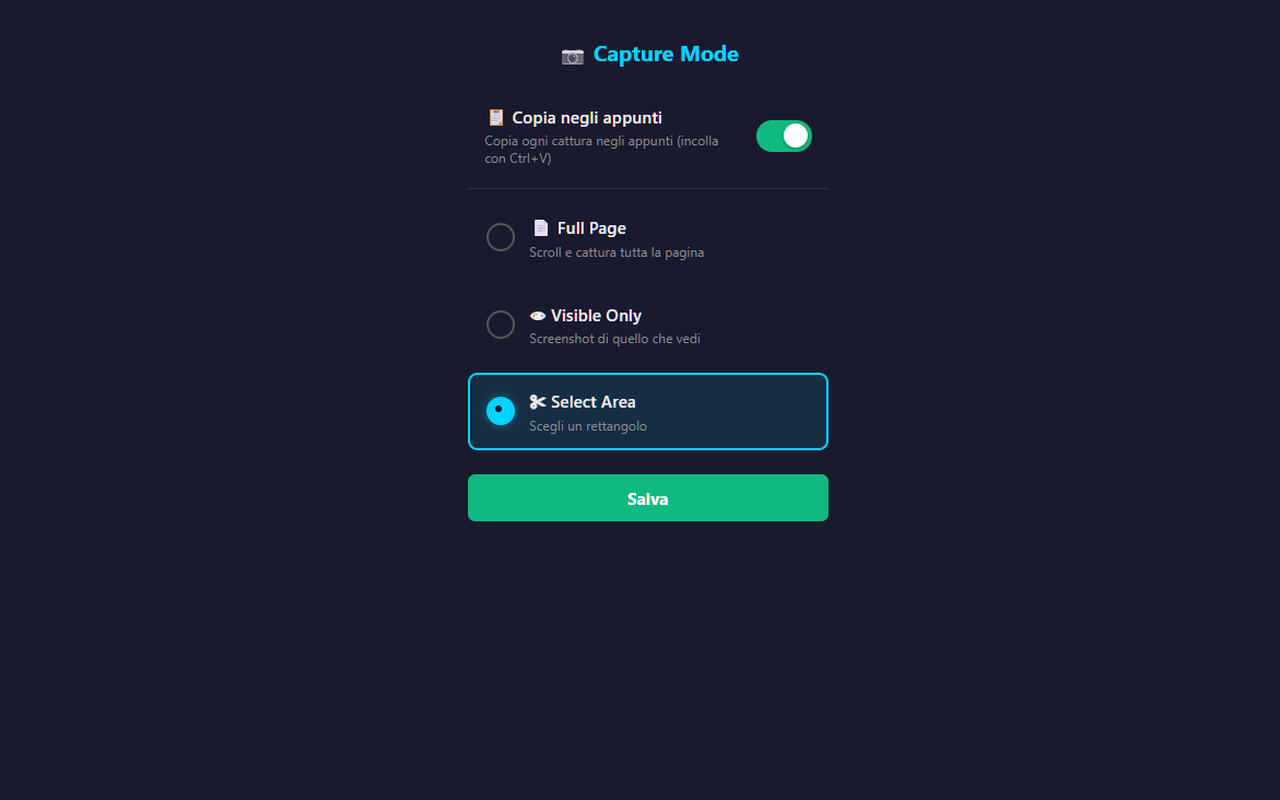
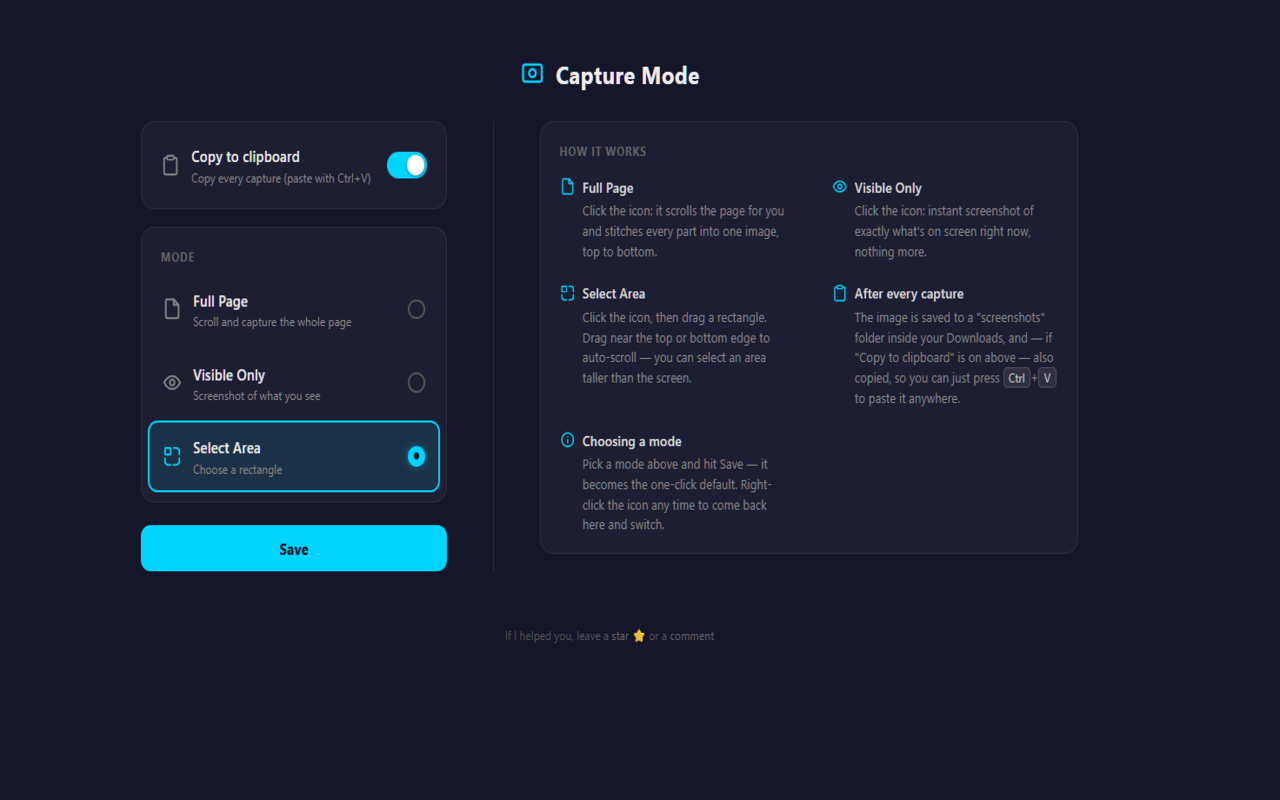
feat: layout a due colonne per Capture Mode e nuovo screenshot store
Su schermi larghi (pagina aperta come scheda, non il popup stretto) Capture
Mode passa a due colonne: controlli a sinistra, guida "How it works" a
destra, separate da una linea verticale. Le 5 voci della guida si dispongono
due per riga invece che impilate. Titolo "Capture Mode" ingrandito e piu'
in evidenza. Sotto i 780px di larghezza il layout resta a colonna singola
come prima, nessun cambiamento per il popup dell'estensione.

Sostituito shot_5.png con lo screenshot promozionale del nuovo restyling
(1280x800, RGB senza alpha, come richiesto dal Chrome Web Store).

diff --git a/full-page-screenshot-extension/settings.html b/full-page-screenshot-extension/settings.html
@@ -17,17 +17,54 @@
     .container {
       width: 320px;
     }
+
+    /* Su schermi larghi (la pagina aperta come scheda vera, non il popup
+       stretto dell'estensione) si passa a due colonne: a sinistra i controlli,
+       a destra la guida. Stesso identico contenuto, solo il layout cambia,
+       cosi' l'intera pagina sta senza scroll invece di allungarsi in verticale. */
+    @media (min-width: 780px) {
+      body { padding: 56px 40px; }
+      .container {
+        width: 100%;
+        max-width: 980px;
+        display: grid;
+        grid-template-columns: 320px 1fr;
+        column-gap: 48px;
+        align-items: start;
+      }
+      .brand, .footer {
+        grid-column: 1 / -1;
+      }
+      .col-right {
+        grid-column: 2;
+        grid-row: 2 / span 4;
+        /* Linea verticale che separa i controlli dalla guida, invece del
+           semplice spazio vuoto: rende esplicito che sono due sezioni diverse
+           (impostazioni a sinistra, spiegazione a destra), non due colonne
+           casuali. */
+        border-left: 1px solid rgba(255,255,255,0.09);
+        padding-left: 48px;
+      }
+      /* Le voci di "How it works" a due per riga invece che impilate: c'e'
+         spazio orizzontale, meglio usarlo che allungare la card in verticale.
+         L'ultima voce (numero dispari) resta da sola sull'ultima riga. */
+      #howItWorksList {
+        display: grid;
+        grid-template-columns: 1fr 1fr;
+        column-gap: 20px;
+      }
+    }
     .brand {
       display: flex;
       align-items: center;
       justify-content: center;
-      gap: 10px;
-      margin: 0 0 22px 0;
+      gap: 12px;
+      margin: 0 0 28px 0;
     }
-    .brand svg { flex-shrink: 0; }
+    .brand svg { flex-shrink: 0; width: 26px; height: 26px; }
     .brand h2 {
       margin: 0;
-      font-size: 17px;
+      font-size: 22px;
       font-weight: 700;
       color: #eee;
       letter-spacing: 0.2px;
@@ -348,47 +385,51 @@
     <button class="btn-save" id="btnSave">Save</button>
     <div class="saved" id="saved">Saved!</div>
 
-    <div class="card">
-      <div class="card-title">How it works</div>
+    <div class="col-right">
+      <div class="card">
+        <div class="card-title">How it works</div>
 
-      <div class="help-item">
-        <div class="q">
-          <svg class="icon" viewBox="0 0 24 24" fill="none" stroke="currentColor" stroke-width="2" stroke-linecap="round" stroke-linejoin="round"><path d="M14 2H6a2 2 0 0 0-2 2v16a2 2 0 0 0 2 2h12a2 2 0 0 0 2-2V8Z"/><path d="M14 2v6h6"/></svg>
-          Full Page
+        <div id="howItWorksList">
+        <div class="help-item">
+          <div class="q">
+            <svg class="icon" viewBox="0 0 24 24" fill="none" stroke="currentColor" stroke-width="2" stroke-linecap="round" stroke-linejoin="round"><path d="M14 2H6a2 2 0 0 0-2 2v16a2 2 0 0 0 2 2h12a2 2 0 0 0 2-2V8Z"/><path d="M14 2v6h6"/></svg>
+            Full Page
+          </div>
+          <div class="a">Click the icon: it scrolls the page for you and stitches every part into one image, top to bottom.</div>
         </div>
-        <div class="a">Click the icon: it scrolls the page for you and stitches every part into one image, top to bottom.</div>
-      </div>
 
-      <div class="help-item">
-        <div class="q">
-          <svg class="icon" viewBox="0 0 24 24" fill="none" stroke="currentColor" stroke-width="2" stroke-linecap="round" stroke-linejoin="round"><path d="M2 12s3.5-7 10-7 10 7 10 7-3.5 7-10 7-10-7-10-7Z"/><circle cx="12" cy="12" r="3"/></svg>
-          Visible Only
+        <div class="help-item">
+          <div class="q">
+            <svg class="icon" viewBox="0 0 24 24" fill="none" stroke="currentColor" stroke-width="2" stroke-linecap="round" stroke-linejoin="round"><path d="M2 12s3.5-7 10-7 10 7 10 7-3.5 7-10 7-10-7-10-7Z"/><circle cx="12" cy="12" r="3"/></svg>
+            Visible Only
+          </div>
+          <div class="a">Click the icon: instant screenshot of exactly what's on screen right now, nothing more.</div>
         </div>
-        <div class="a">Click the icon: instant screenshot of exactly what's on screen right now, nothing more.</div>
-      </div>
 
-      <div class="help-item">
-        <div class="q">
-          <svg class="icon" viewBox="0 0 24 24" fill="none" stroke="currentColor" stroke-width="2" stroke-linecap="round" stroke-linejoin="round"><rect x="3" y="3" width="7" height="7" rx="1"/><path d="M14 3h3a4 4 0 0 1 4 4v3M21 14v3a4 4 0 0 1-4 4h-3M10 21H7a4 4 0 0 1-4-4v-3"/></svg>
-          Select Area
+        <div class="help-item">
+          <div class="q">
+            <svg class="icon" viewBox="0 0 24 24" fill="none" stroke="currentColor" stroke-width="2" stroke-linecap="round" stroke-linejoin="round"><rect x="3" y="3" width="7" height="7" rx="1"/><path d="M14 3h3a4 4 0 0 1 4 4v3M21 14v3a4 4 0 0 1-4 4h-3M10 21H7a4 4 0 0 1-4-4v-3"/></svg>
+            Select Area
+          </div>
+          <div class="a">Click the icon, then drag a rectangle. Drag near the top or bottom edge to auto-scroll — you can select an area taller than the screen.</div>
         </div>
-        <div class="a">Click the icon, then drag a rectangle. Drag near the top or bottom edge to auto-scroll — you can select an area taller than the screen.</div>
-      </div>
 
-      <div class="help-item">
-        <div class="q">
-          <svg class="icon" viewBox="0 0 24 24" fill="none" stroke="currentColor" stroke-width="2" stroke-linecap="round" stroke-linejoin="round"><rect x="8" y="2" width="8" height="4" rx="1"/><path d="M8 4H6a2 2 0 0 0-2 2v14a2 2 0 0 0 2 2h12a2 2 0 0 0 2-2V6a2 2 0 0 0-2-2h-2"/></svg>
-          After every capture
+        <div class="help-item">
+          <div class="q">
+            <svg class="icon" viewBox="0 0 24 24" fill="none" stroke="currentColor" stroke-width="2" stroke-linecap="round" stroke-linejoin="round"><rect x="8" y="2" width="8" height="4" rx="1"/><path d="M8 4H6a2 2 0 0 0-2 2v14a2 2 0 0 0 2 2h12a2 2 0 0 0 2-2V6a2 2 0 0 0-2-2h-2"/></svg>
+            After every capture
+          </div>
+          <div class="a">The image is saved to a "screenshots" folder inside your Downloads, and — if "Copy to clipboard" is on above — also copied, so you can just press <kbd>Ctrl</kbd>+<kbd>V</kbd> to paste it anywhere.</div>
         </div>
-        <div class="a">The image is saved to a "screenshots" folder inside your Downloads, and — if "Copy to clipboard" is on above — also copied, so you can just press <kbd>Ctrl</kbd>+<kbd>V</kbd> to paste it anywhere.</div>
-      </div>
 
-      <div class="help-item">
-        <div class="q">
-          <svg class="icon" viewBox="0 0 24 24" fill="none" stroke="currentColor" stroke-width="2" stroke-linecap="round" stroke-linejoin="round"><circle cx="12" cy="12" r="9"/><path d="M12 16v-4M12 8h.01"/></svg>
-          Choosing a mode
+        <div class="help-item">
+          <div class="q">
+            <svg class="icon" viewBox="0 0 24 24" fill="none" stroke="currentColor" stroke-width="2" stroke-linecap="round" stroke-linejoin="round"><circle cx="12" cy="12" r="9"/><path d="M12 16v-4M12 8h.01"/></svg>
+            Choosing a mode
+          </div>
+          <div class="a">Pick a mode above and hit Save — it becomes the one-click default. Right-click the icon any time to come back here and switch.</div>
         </div>
-        <div class="a">Pick a mode above and hit Save — it becomes the one-click default. Right-click the icon any time to come back here and switch.</div>
+        </div>
       </div>
     </div>
 
